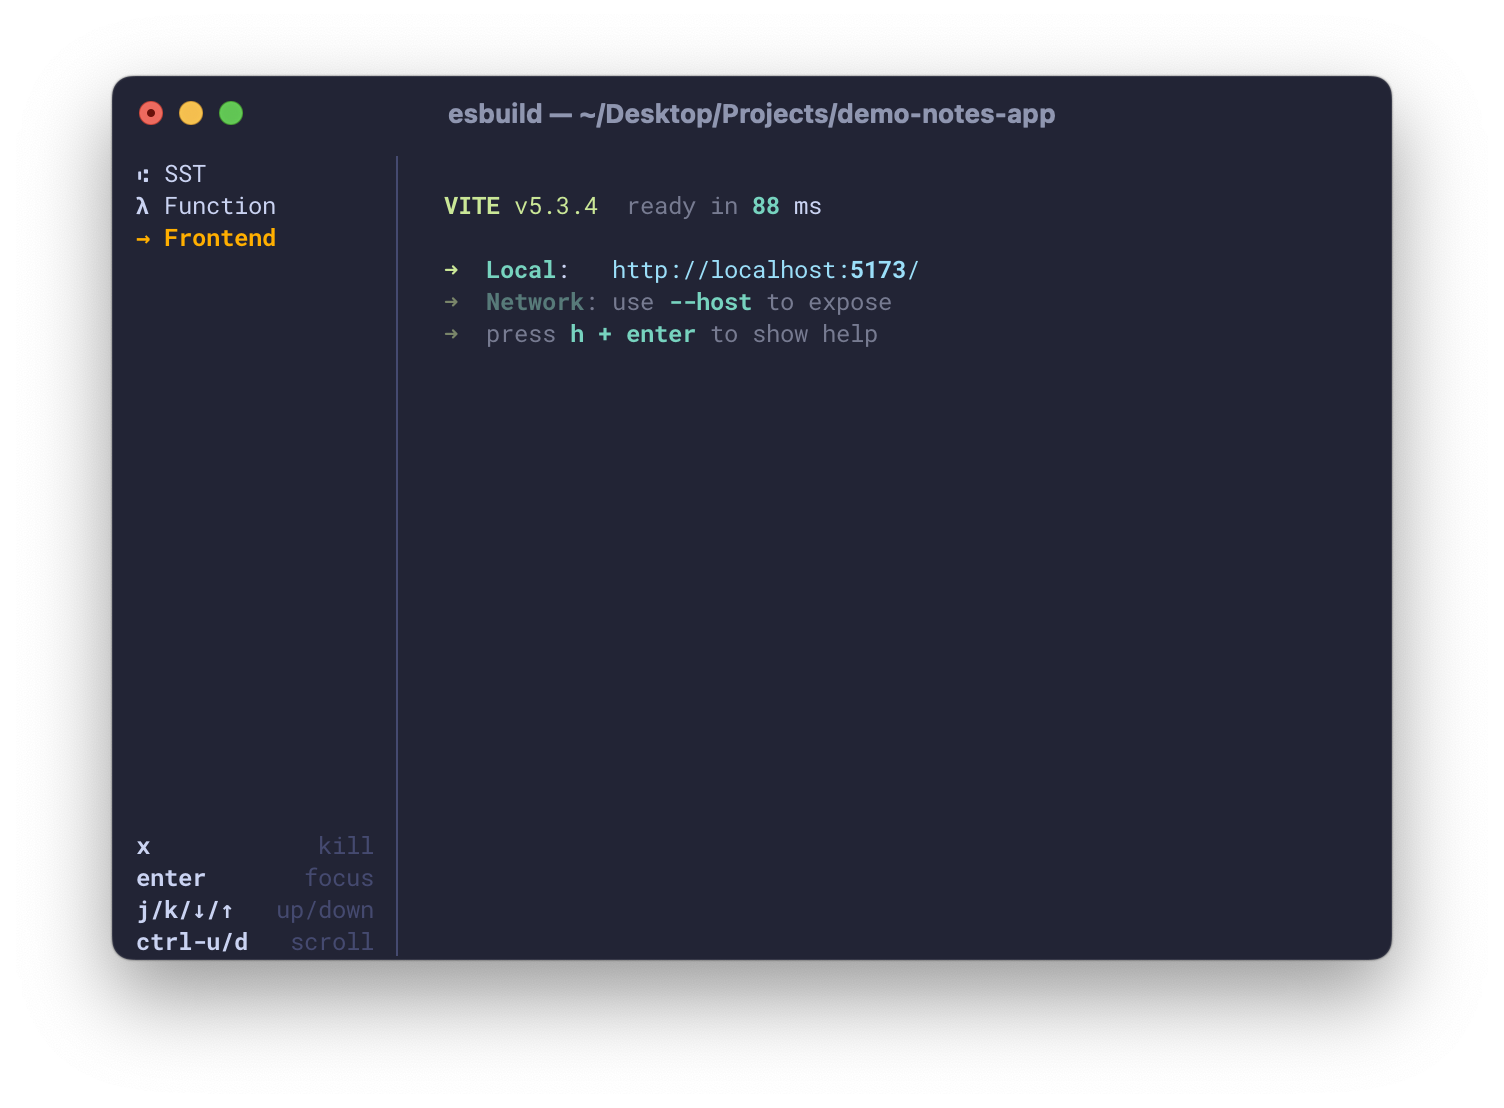
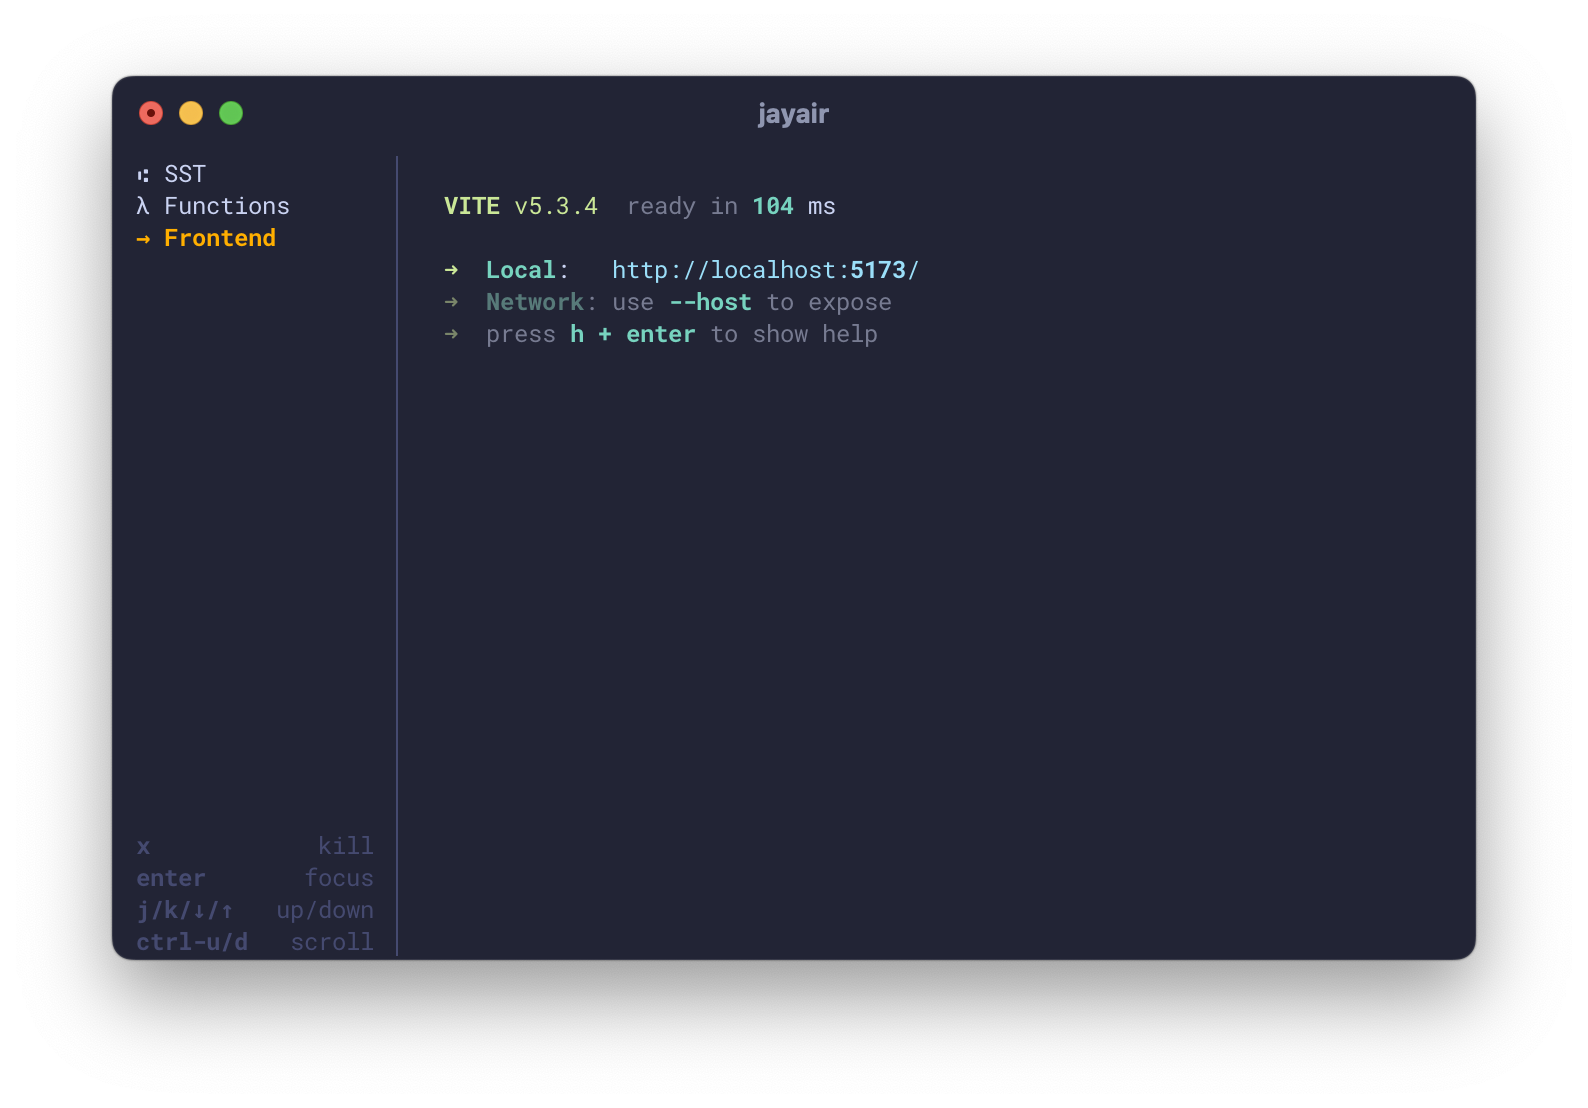
Edits

diff --git a/_chapters/add-an-api-to-create-a-note.md b/_chapters/add-an-api-to-create-a-note.md
@@ -35,7 +35,7 @@ api.route("POST /notes", "packages/functions/src/create.main");
 
 We are doing a couple of things of note here.
 
-- We are creating an API using SST's [`Api`]({{ site.ion_url }}/docs/component/apigatewayv2/) construct. It creates an [Amazon API Gateway HTTP API](https://docs.aws.amazon.com/apigateway/latest/developerguide/http-api.html){:target="_blank"}.
+- We are creating an API using SST's [`Api`]({{ site.ion_url }}/docs/component/apigatewayv2/) component. It creates an [Amazon API Gateway HTTP API](https://docs.aws.amazon.com/apigateway/latest/developerguide/http-api.html){:target="_blank"}.
 
 - We are [linking]({{ site.ion_url }}/docs/linking/){:target="_blank"} our DynamoDB table to our API using the `link` prop. This will allow our API to access our table.
 
@@ -109,7 +109,7 @@ There are some helpful comments in the code but let's go over them quickly.
 - Parse the input from the `event.body`. This represents the HTTP request body.
 - It contains the contents of the note, as a string — `content`.
 - It also contains an `attachment`, if one exists. It's the filename of a file that will be uploaded to [our S3 bucket]({% link _chapters/create-an-s3-bucket-in-sst.md %}).
-- We can access our linked DynamoDB table through `Resource.Notes.name` using the [SST SDK]({{ site.ion_url }}/docs/reference/sdk/){:target="_blank"}. Here `Notes` in `Resource.Notes` is the name of our Table construct from the [Create a DynamoDB Table in SST]({% link _chapters/create-a-dynamodb-table-in-sst.md %}) chapter. By doing `link: [table]` earlier in this chapter, we are allowing our API to access our table.
+- We can access our linked DynamoDB table through `Resource.Notes.name` using the [SST SDK]({{ site.ion_url }}/docs/reference/sdk/){:target="_blank"}. Here `Notes` in `Resource.Notes` is the name of our Table component from the [Create a DynamoDB Table in SST]({% link _chapters/create-a-dynamodb-table-in-sst.md %}) chapter. By doing `link: [table]` earlier in this chapter, we are allowing our API to access our table.
 - The `userId` is the id for the author of the note. For now we are hardcoding it to `123`. Later we'll be setting this based on the authenticated user.
 - Make a call to DynamoDB to put a new object with a generated `noteId` and the current date as the `createdAt`.
 - And if the DynamoDB call fails then return an error with the HTTP status code `500`.

diff --git a/_chapters/create-a-new-reactjs-app.md b/_chapters/create-a-new-reactjs-app.md
@@ -4,7 +4,7 @@ title: Create a New React.js App
 date: 2017-01-06 00:00:00
 lang: en
 ref: create-a-new-react-js-app
-description: In this chapter we'll use Vite to create a new React.js app. We'll be deploying our React app to AWS using the SST StaticSite construct.
+description: In this chapter we'll use Vite to create a new React.js app. We'll be deploying our React app to AWS using the SST StaticSite component.
 comments_id: create-a-new-react-js-app/68
 ---
 
@@ -87,7 +87,7 @@ export const frontend = new sst.aws.StaticSite("Frontend", {
 
 We are doing a couple of things of note here:
 
-1. We are pointing our `StaticSite` construct to the `packages/frontend/` directory where our React app is.
+1. We are pointing our `StaticSite` component to the `packages/frontend/` directory where our React app is.
 2. We are passing in the outputs from our other stacks as [environment variables in Vite](https://vitejs.dev/guide/env-and-mode.html#env-variables){:target="_blank"}. This means that we won't have to hard code them in our React app. The `VITE_*` prefix is a convention Vite uses to say that we want to access these in our frontend code.
 
 ### Adding to the app
@@ -106,7 +106,7 @@ await import("./infra/web");
 If you switch over to your terminal, you will notice that your changes are being deployed.
 
 {%info%}
-You’ll need to have `sst dev` running for this to happen. If you had previously stopped it, then running `pnpm sst dev` will deploy your changes again.
+You’ll need to have `sst dev` running for this to happen. If you had previously stopped it, then running `npx sst dev` will deploy your changes again.
 {%endinfo%}
 
 ```bash
@@ -127,7 +127,7 @@ You can click on **Frontend** in the sidebar or navigate to it.
 This should show where your frontend is running locally.
 
 ```bash
-VITE v5.3.4  ready in 88 ms
+VITE v5.3.4  ready in 104 ms
 
 ➜  Local:   http://127.0.0.1:5173/
 ➜  Network: use --host to expose

diff --git a/_chapters/changelog.md b/_chapters/changelog.md
@@ -15,7 +15,7 @@ Below are the updates we’ve made to SST, each with:
 
 - Each update has a link to an **archived version of the tutorial**
 - Updates to the tutorial **compared to the last version**
-- Updates to the **API and Client repos**
+- Updates to the **guide and demo repos**
 
 While the hosted version of the tutorial and the code snippets are accurate, the sample project repo that is linked at the bottom of each chapter is unfortunately not. We do however maintain the past versions of the completed sample project repo. So you should be able to use those to figure things out. All this info is also available on the [releases page]({{ site.github_repo }}/releases) of our [GitHub repo]({{ site.github_repo }}).
 

diff --git a/_chapters/handle-cors-in-serverless-apis.md b/_chapters/handle-cors-in-serverless-apis.md
@@ -50,6 +50,7 @@ The [`ApiGatewayV2`]({{ site.ion_url }}/docs/component/aws/apigatewayv2/){:targe
 
 ```ts
 new sst.aws.ApiGatewayV2("Api", {
+  // Enabled by default
   cors: true
 });
 ```
